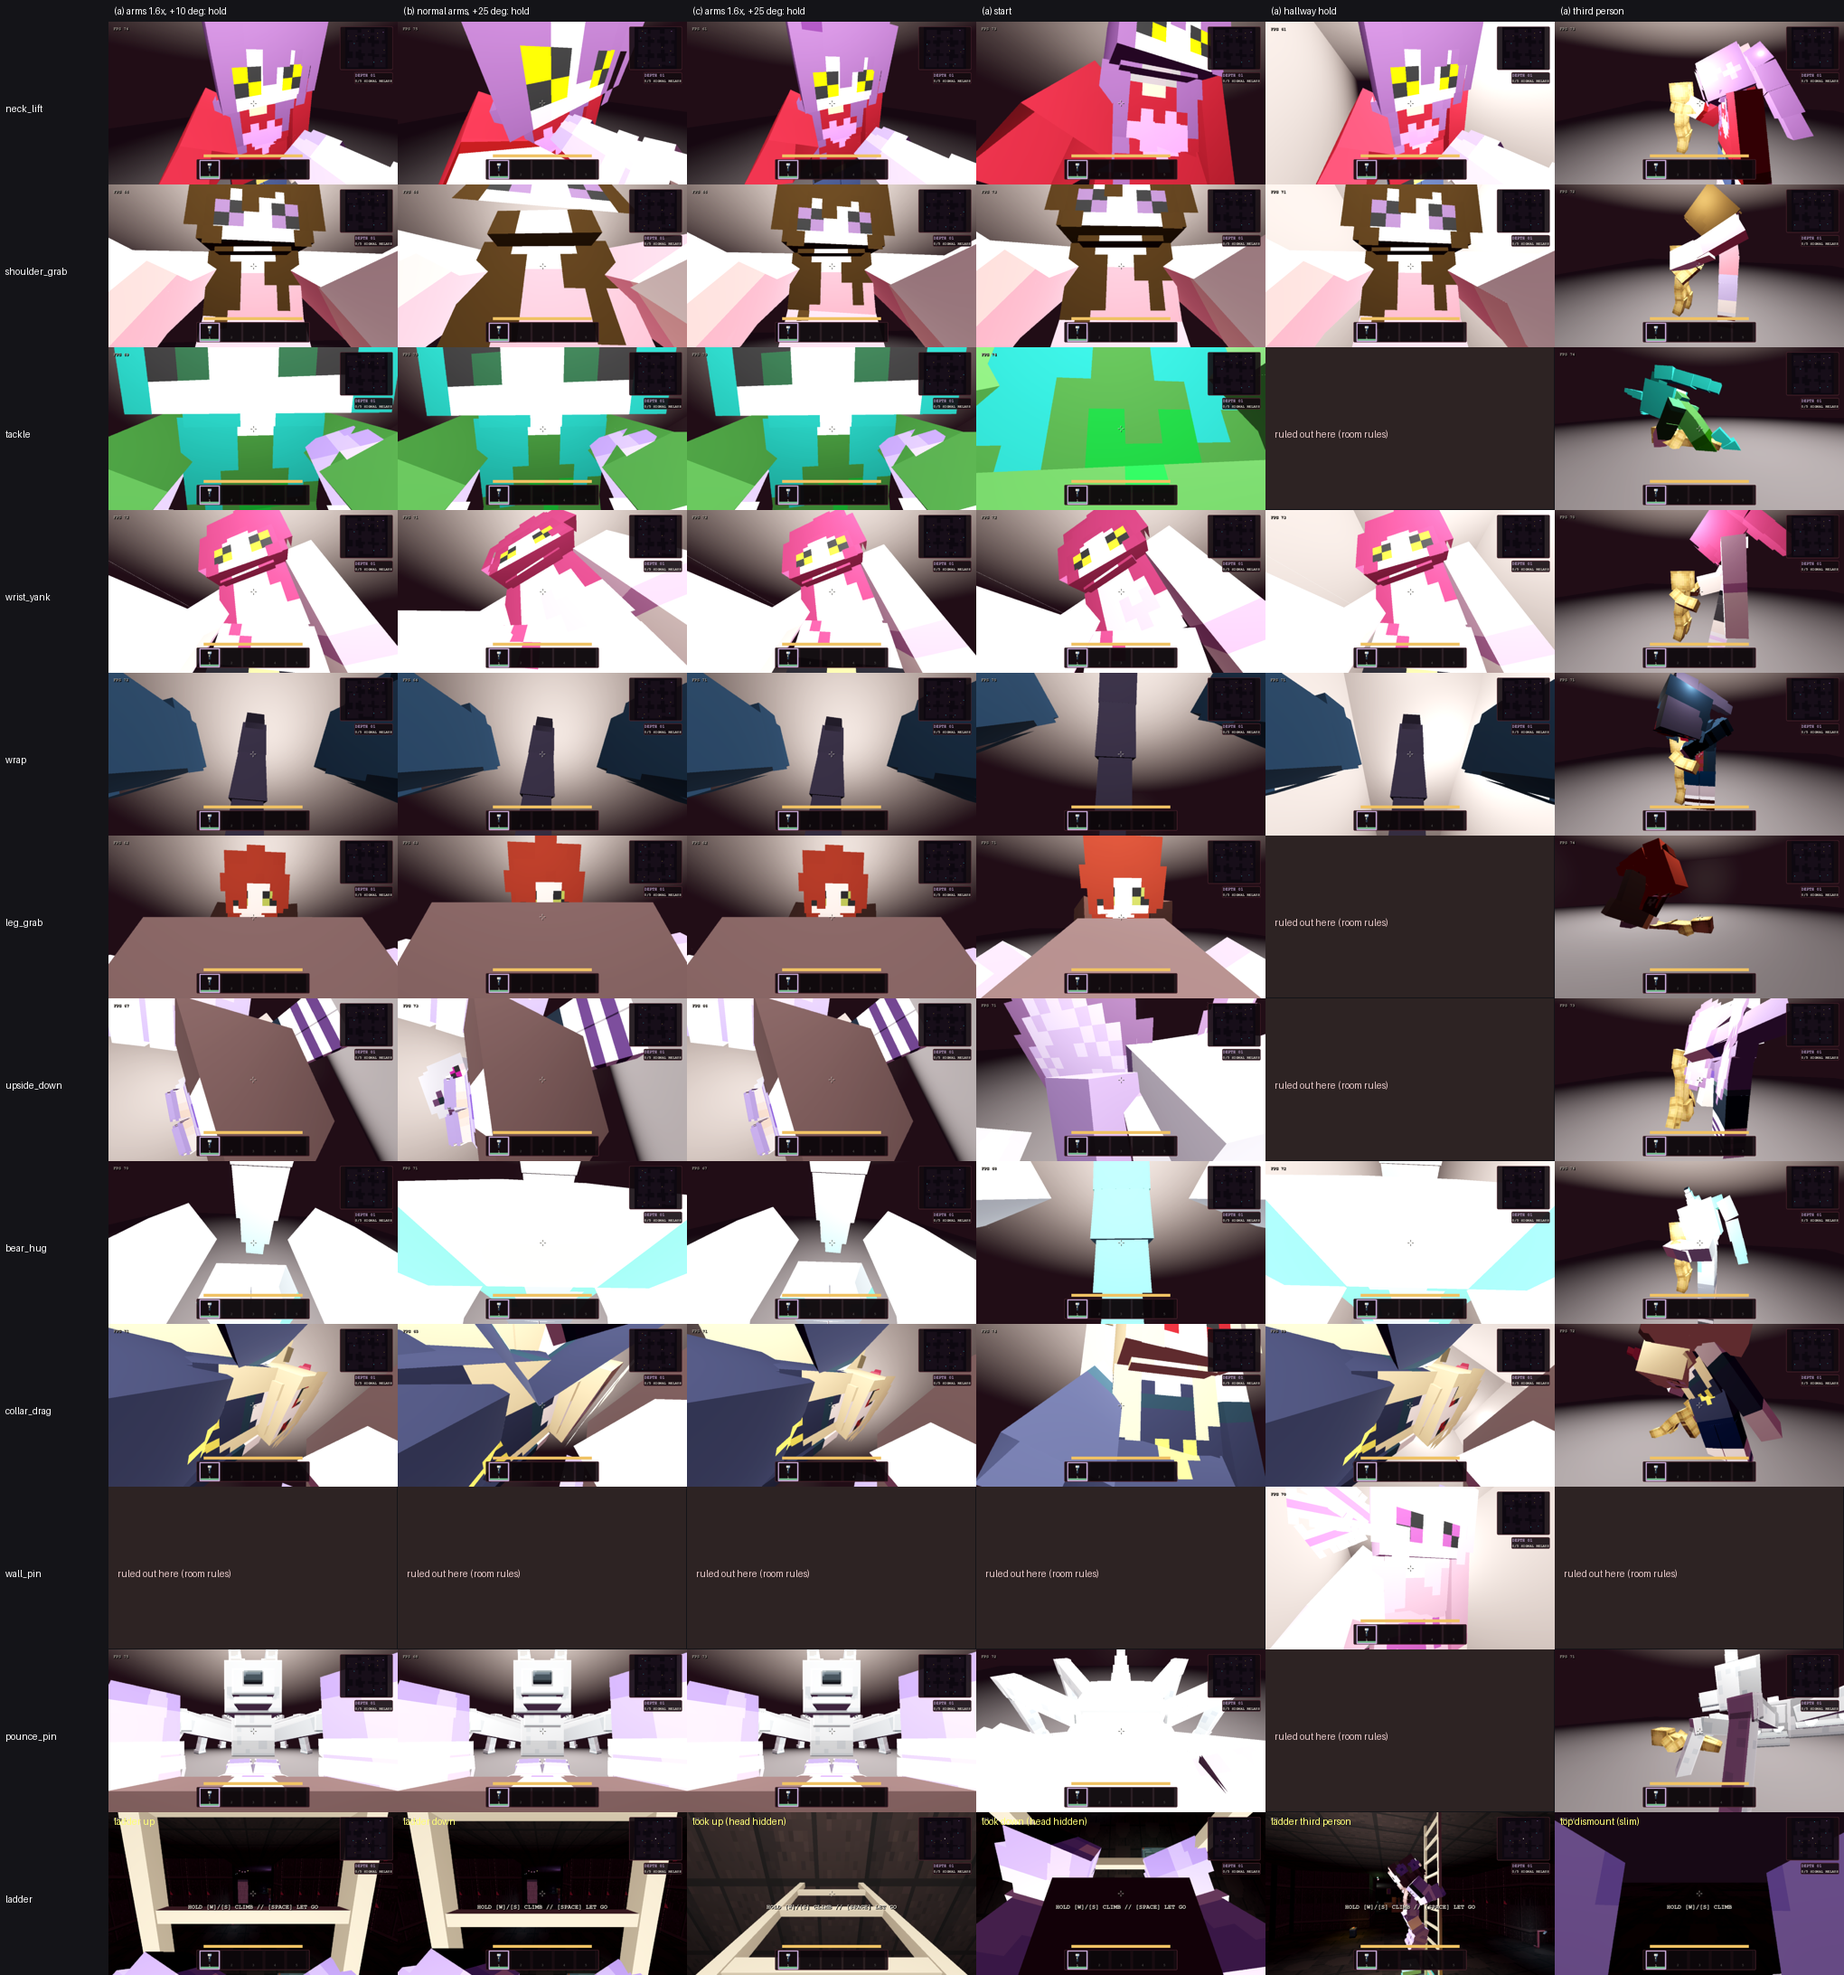
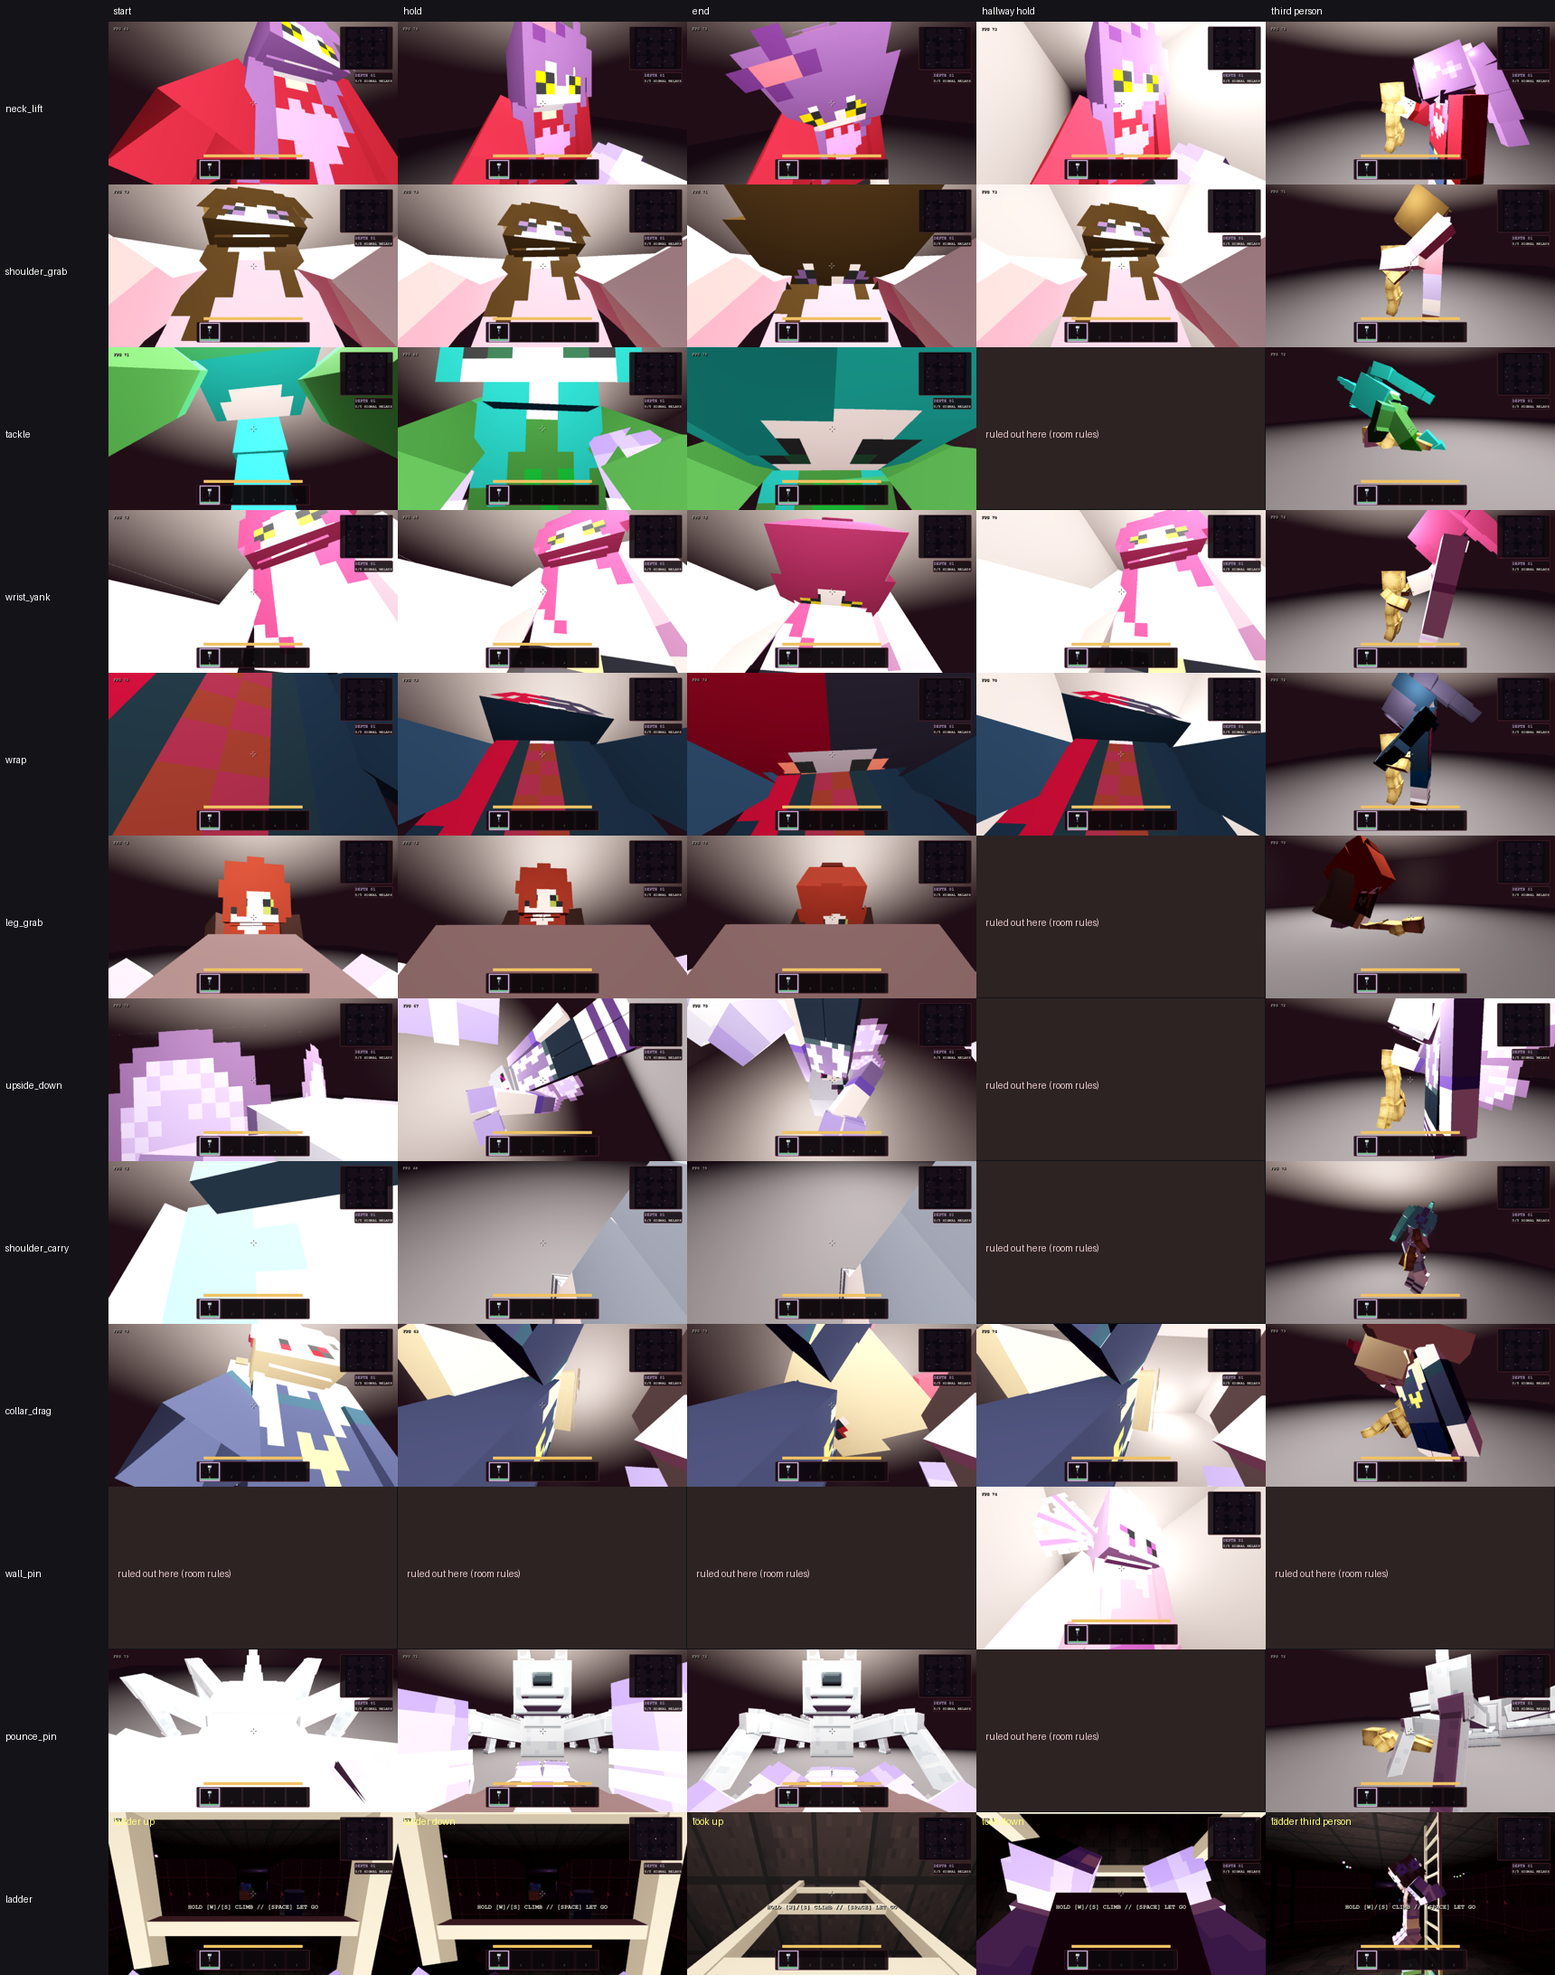
Grabs/ladders: first-person camera on the runner's head front face + 1.5 cm (KT), tested every frame; her head turns after the arm IK (head only) straight at the camera, the view centred on her face, both within 10 deg at the hold for every style and hunter; wrap holds from a step away with stretche

diff --git a/docs/HUNTER_GRABS.md b/docs/HUNTER_GRABS.md
@@ -48,7 +48,7 @@ One grab plays (about 1.9 s), then the death line and game over as before.
 ## First-person camera rules (KT, after the first sheet)
 
 `HunterGrab._solve_camera` places the camera every frame:
-- **Position:** the first-person body's real eyes, never behind them (KT). It rides the eyes exactly (every pose is eased), easing in from the runner's own view over the first 0.2 s. Only a wall, the floor or her collider moves it: up or to the side, never back.
+- **Position:** on the plane where the runner's head box ends (its face) plus 1.5 cm, at eye height, along the head's own facing (KT; `FirstPersonBody.eye`). The eye attachments sit just inside the head. It is never behind that point, and is tested on every grab and ladder frame. Normal walking first person is unchanged: its fixed pivot sits on the body's centre line at eye height and does not use this point. It rides the eyes exactly (every pose is eased), easing in from the runner's own view over the first 0.2 s. Only a wall, the floor or her collider moves it: up or to the side, never back.
 - **Framing:** her arms are straight (she holds the runner at arm's length) and, for the reaching styles (`HunterGrab.STRETCH_STYLES`), stretched along their length up to `arm_stretch` (1.6), eased in with the reach. The hand keeps its size, and HunterView3D puts the arms back once nothing grabs with her. The view tips up to her face, and in the hold it widens up to `fov_widen` degrees (25), eased, while her face is closer than 1.2 m. KT picked 1.6x arms with up to +25 (option c of the comparison).
 - **Upside-down hold:** hung head down, the runner looks up along their own body at her. Their torso, upper arms and thighs (`HunterGrab.UPSIDE_DOWN_HIDDEN`, each bone's own box only) join the head on the first-person-only layer for that style; others still see the whole body, and the calves and feet in her hand stay in view. Before/after: ![](hunter_grab_upside_down.png)
 - **Shoulder carry (SC, replaces the bear hug):** frames start/hold/end and third person: ![](hunter_grab_shoulder_carry.png)
@@ -62,7 +62,7 @@ One grab plays (about 1.9 s), then the death line and game over as before.
 - **Roll:** at most 15 degrees. The upside-down hold turns over slowly, eased over 1.5 s, then sways within 10 degrees.
 - **Other limits:** the FOV is never touched. The held tool is hidden. The skinned hands stay on screen and at most half the screen tall.
 
-- **Her head:** her head and eyes follow the runner's camera (other players: the runner's head). `head_look` turns the chest a share and the head the rest, applied after her clips and the view's own head look, from the pose underneath (an untouched bone has last frame's turn taken off first, so it never compounds or fades). Per-hunter limits, chest share, face axis and Aki's look-away delay are in `data/grabs/<id>.json` under `"look"` (`GrabStyles.look_for`). The grabs suite checks every hunter at the hold: her face points within 15 degrees of the runner.
+- **Her head:** turned after her arms are on the runner, with the head bone only (no chest share), so the hands stay put. The target is the runner's camera itself; other players aim it at the runner's face. The runner's view is aimed at her face (between her eyes). Tested at the hold for every style and every hunter: her eye line points at the camera within 10 degrees, and her face is within 10 degrees of the centre of the view (not checked for the shoulder carry, where the runner looks down her back). Her head follows the runner's camera (other players: the runner's head). `head_look` turns the chest a share and the head the rest, applied after her clips and the view's own head look, from the pose underneath (an untouched bone has last frame's turn taken off first, so it never compounds or fades). Per-hunter limits, chest share, face axis and Aki's look-away delay are in `data/grabs/<id>.json` under `"look"` (`GrabStyles.look_for`). The grabs suite checks every hunter at the hold: her face points within 15 degrees of the runner.
 - **Third-person captures:** about 65 degrees off the runner's face, so the runner's front and her grip are both in view (head on, she stands in the way).
 
 Her arms use two-bone IK (`HunterGrab.solve_arm`):
